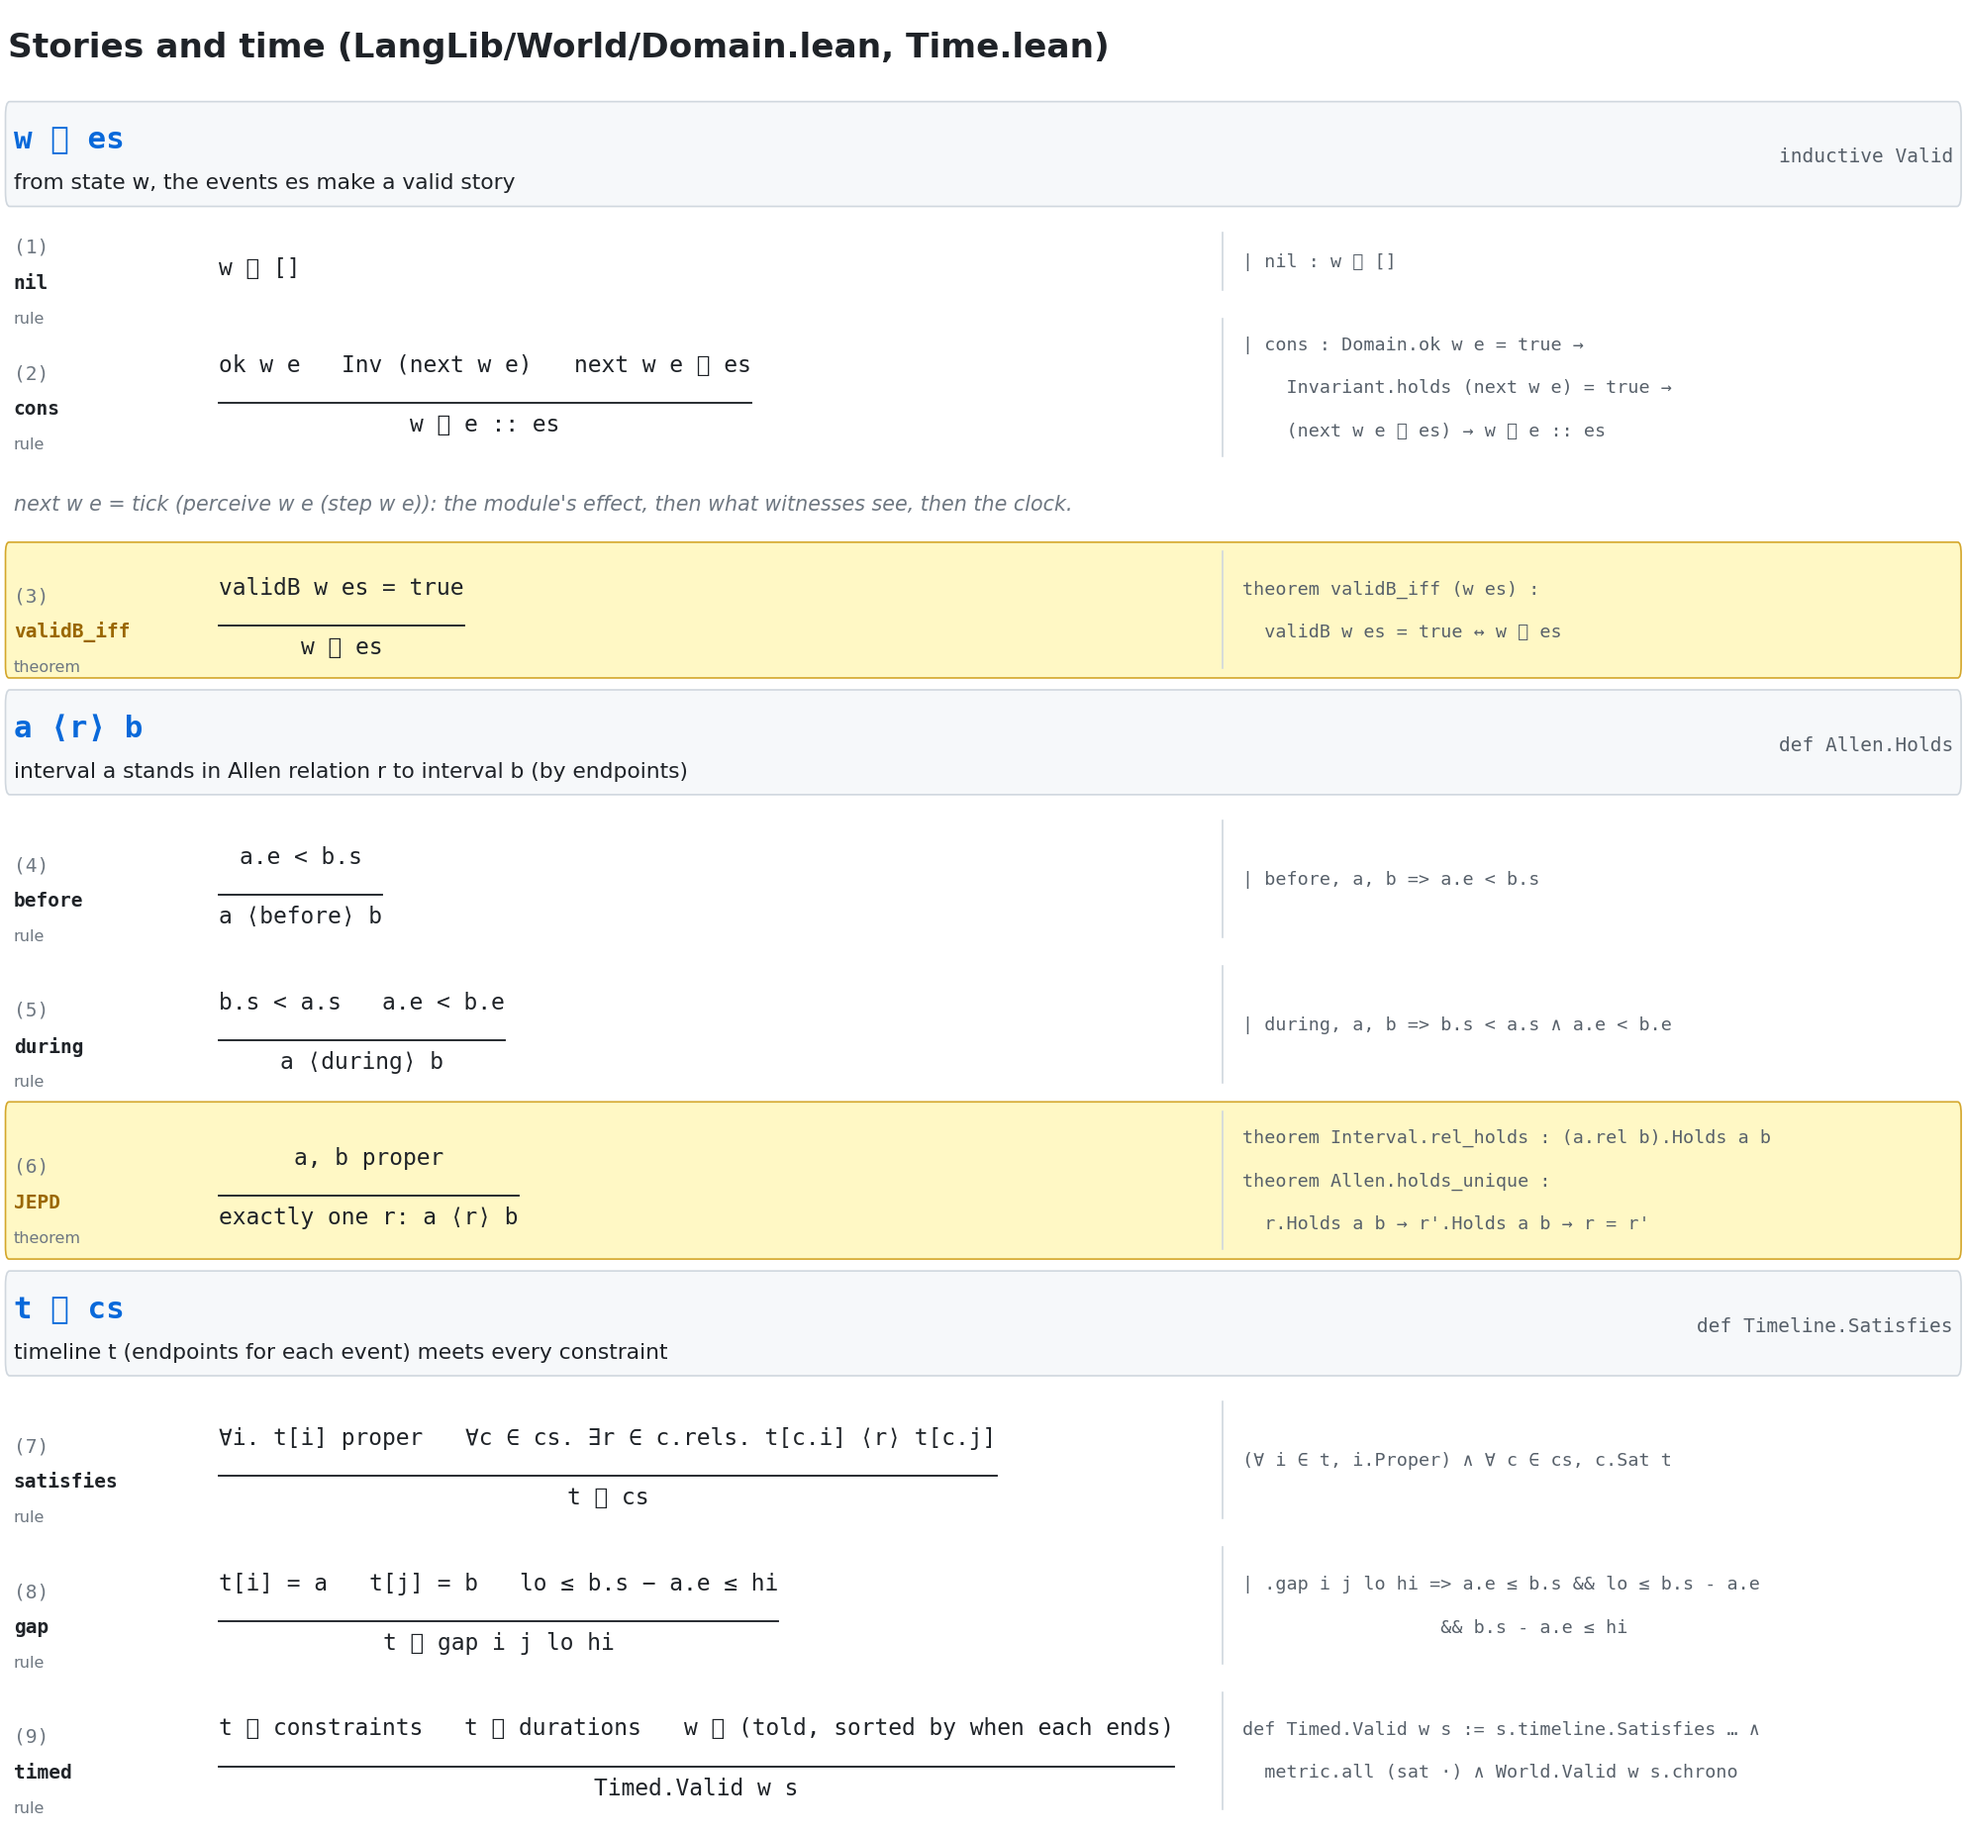
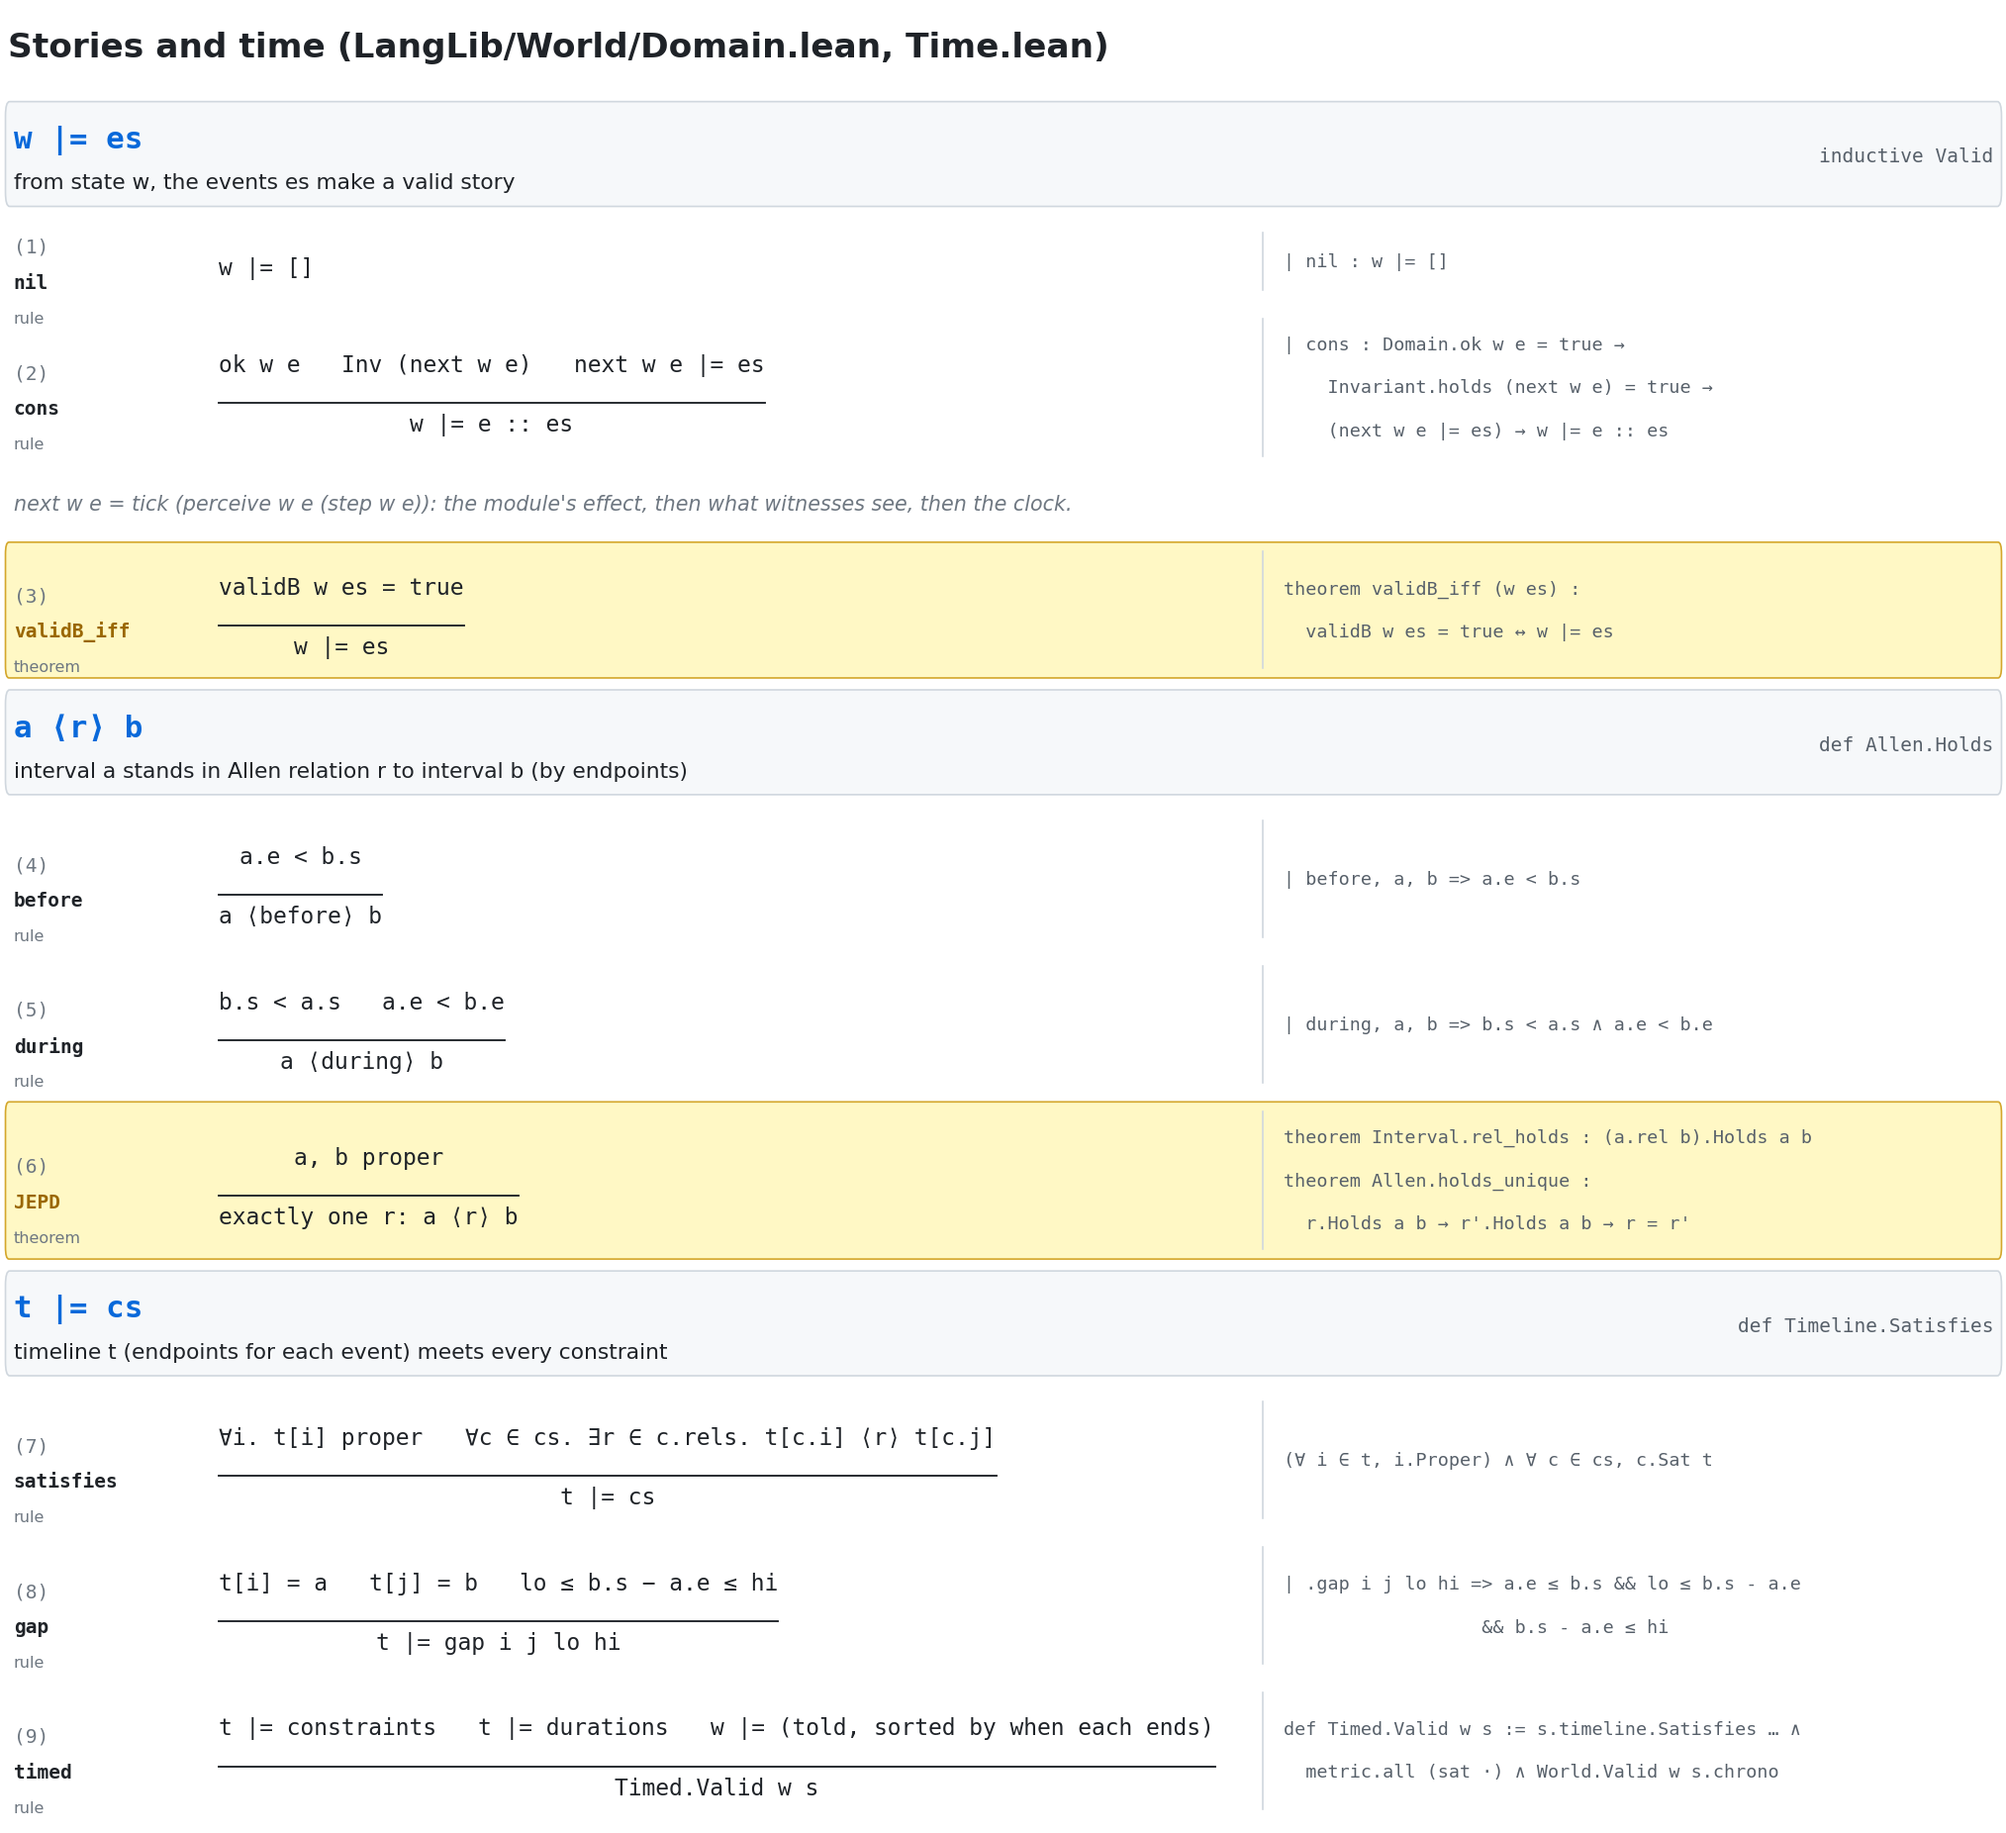
w ⊨? es notation; C4 card; ascii |= in figures

diff --git a/viz/cards.py b/viz/cards.py
@@ -82,9 +82,9 @@ def key():
             ("T ⊢ s ⇏ q", "Rebutted T q s", "rule s's attack on q fails"),
             ("T ⊢ r ✗", "Discarded T r", "some premise of rule r is refuted"),
             ("T ⊢ t ⊁ s", "Unbeaten T t s", "rule t does not override rule s"),
-            ("w ⊨ es", "Valid w es", "from state w, the events es make a valid story"),
+            ("w |= es", "Valid w es", "from state w, the events es make a valid story"),
             ("a ⟨r⟩ b", "Allen.Holds r a b", "interval a stands in Allen relation r to b"),
-            ("t ⊨ cs", "Timeline.Satisfies t cs", "timeline t meets every 'when' constraint"),
+            ("t |= cs", "Timeline.Satisfies t cs", "timeline t meets every 'when' constraint"),
             ("view w c", "Mind.view", "what c believes now (consistent, by theorem)"),
             ("viewAt w c t", "Mind.viewAt", "what c now believes held at time t"),
             ("viewAsOf w c s", "Mind.viewAsOf", "what c believed at time s (as they remember it)"),
@@ -148,24 +148,24 @@ def dl():
 
 def stories():
     return card("c2-stories.png", "Stories and time (LangLib/World/Domain.lean, Time.lean)", [
-        ("rel", "w ⊨ es", "from state w, the events es make a valid story", "inductive Valid"),
-        ("rule", "nil", P(concl="w ⊨ []"), ["| nil : w ⊨ []"]),
-        ("rule", "cons", P("ok w e", "Inv (next w e)", "next w e ⊨ es", concl="w ⊨ e :: es"),
-         ["| cons : Domain.ok w e = true →", "    Invariant.holds (next w e) = true →", "    (next w e ⊨ es) → w ⊨ e :: es"]),
+        ("rel", "w |= es", "from state w, the events es make a valid story", "inductive Valid"),
+        ("rule", "nil", P(concl="w |= []"), ["| nil : w |= []"]),
+        ("rule", "cons", P("ok w e", "Inv (next w e)", "next w e |= es", concl="w |= e :: es"),
+         ["| cons : Domain.ok w e = true →", "    Invariant.holds (next w e) = true →", "    (next w e |= es) → w |= e :: es"]),
         ("note", "next w e = tick (perceive w e (step w e)): the module's effect, then what witnesses see, then the clock."),
-        ("thm", "validB_iff", P("validB w es = true", concl="w ⊨ es"),
-         ["theorem validB_iff (w es) :", "  validB w es = true ↔ w ⊨ es"]),
+        ("thm", "validB_iff", P("validB w es = true", concl="w |= es"),
+         ["theorem validB_iff (w es) :", "  validB w es = true ↔ w |= es"]),
         ("rel", "a ⟨r⟩ b", "interval a stands in Allen relation r to interval b (by endpoints)", "def Allen.Holds"),
         ("rule", "before", P("a.e < b.s", concl="a ⟨before⟩ b"), ["| before, a, b => a.e < b.s"]),
         ("rule", "during", P("b.s < a.s", "a.e < b.e", concl="a ⟨during⟩ b"), ["| during, a, b => b.s < a.s ∧ a.e < b.e"]),
         ("thm", "JEPD", P("a, b proper", concl="exactly one r: a ⟨r⟩ b"),
          ["theorem Interval.rel_holds : (a.rel b).Holds a b", "theorem Allen.holds_unique :", "  r.Holds a b → r'.Holds a b → r = r'"]),
-        ("rel", "t ⊨ cs", "timeline t (endpoints for each event) meets every constraint", "def Timeline.Satisfies"),
-        ("rule", "satisfies", P("∀i. t[i] proper", "∀c ∈ cs. ∃r ∈ c.rels. t[c.i] ⟨r⟩ t[c.j]", concl="t ⊨ cs"),
+        ("rel", "t |= cs", "timeline t (endpoints for each event) meets every constraint", "def Timeline.Satisfies"),
+        ("rule", "satisfies", P("∀i. t[i] proper", "∀c ∈ cs. ∃r ∈ c.rels. t[c.i] ⟨r⟩ t[c.j]", concl="t |= cs"),
          ["(∀ i ∈ t, i.Proper) ∧ ∀ c ∈ cs, c.Sat t"]),
-        ("rule", "gap", P("t[i] = a", "t[j] = b", "lo ≤ b.s − a.e ≤ hi", concl="t ⊨ gap i j lo hi"),
+        ("rule", "gap", P("t[i] = a", "t[j] = b", "lo ≤ b.s − a.e ≤ hi", concl="t |= gap i j lo hi"),
          ["| .gap i j lo hi => a.e ≤ b.s && lo ≤ b.s - a.e", "                  && b.s - a.e ≤ hi"]),
-        ("rule", "timed", P("t ⊨ constraints", "t ⊨ durations", "w ⊨ (told, sorted by when each ends)", concl="Timed.Valid w s"),
+        ("rule", "timed", P("t |= constraints", "t |= durations", "w |= (told, sorted by when each ends)", concl="Timed.Valid w s"),
          ["def Timed.Valid w s := s.timeline.Satisfies … ∧", "  metric.all (sat ·) ∧ World.Valid w s.chrono"]),
     ])
 
@@ -280,4 +280,35 @@ def example():
         ("note", "At the market there is no threats(merchant, m): protect is out of play (✗), timidQuiet applies and nothing overrides it,"),
         ("rule", "market", P("timidQuiet applies", "protect: T ⊢ protect ⊁ timidQuiet (it is ✗)", f"T ⊬+Δ {k}", concl=f"T ⊢−∂ {k}"),
          ["NotDef.defeated  (s := timidQuiet)", "→ the shout is out of character"]),
+    ])
+
+
+def unknowns_dialogue_goals():
+    return card("c4-dialogue-goals.png", "Unknowns, dialogue, goals (World/Domain, Space, Dialogue, Goals)", [
+        ("rel", "ok3 w e ∈ {yes, no, unknown}", "three-valued preconditions: what the text never said is unknown, not false", "Domain.ok3"),
+        ("rule", "and", P("a = no or b = no", concl="a ∧ b = no"), ["Tri.and: no wins, then unknown, then yes"]),
+        ("rule", "together3", P("loc a or loc b unknown", concl="together3 a b = unknown"),
+         ["def together3 w a b := if locKnown a && locKnown b", "  then ofBool (loc a == loc b) else .unknown"]),
+        ("rule", "assume", P("ok3 w e = unknown", concl="step assumes it: meet / meetObj"),
+         ["-- 'Mara took the letter' puts Mara where it was", "def meet w a b := … assumeAt w a b"]),
+        ("rel", "w |=? es", "plausible under assumptions: no event is ruled out", "inductive Plausible"),
+        ("rule", "cons", P("ok3 w e ≠ no", "Inv (next w e)", "next w e |=? es", concl="w |=? e :: es"),
+         ["| cons : Domain.ok3 w e ≠ .no →", "    Invariant.holds (next w e) = true →", "    (next w e |=? es) → w |=? e :: es"]),
+        ("thm", "plausibleB_iff", P("plausibleB w es = true", concl="w |=? es"), ["theorem plausibleB_iff : plausibleB w es = true ↔ w |=? es"]),
+        ("note", "assumptions w es lists every event that needed one, with why (e.g. 'assumes they were together')."),
+        ("rel", "dialogue", "speech acts beyond telling", "inductive DialogueEv"),
+        ("rule", "answer", P("c asked d about φ (open)", "l ∈ view d", "together", concl="ok (answer d c l); c learns l (told d)"),
+         ["| .answer d c l => together3 ∧", "    isOpen w c d l.1 && (view w d).contains l"]),
+        ("rule", "hint", P("l ∈ view c", "together", concl="d learns l (relayed c: weaker)"), ["| .hint c d l => learn d l (.relayed c)"]),
+        ("rule", "sarcasm", P("c says ~l meaning l", "rapport(d, c)", concl="d learns l"),
+         ["let heard := if Rapport.getsIt w d c then l else flip l", "-- no rapport: d (and bystanders) take ~l"]),
+        ("rule", "promise", P("c promises d l", concl="l is a goal of c; kept iff l true"), ["promises w := (c, d, l) :: …", "def kept w := (promises w).filter (truthLit w ·.2.2)"]),
+        ("rel", "motives", "why each action happened (IPOCL / Sabre: explained actions)", "def motives"),
+        ("rule", "by plan", P("p ∈ plans c", "e = first step of p", concl="e explained (p advances)"),
+         ["let byPlan := (plans w c).find? fun p =>", "  p.steps.head? = some e"]),
+        ("rule", "by goal", P("g ∈ effects e", "g ∈ goals c ∪ promises c", concl="e explained"),
+         ["(Purpose.effects w e).find? (goalsOf w c).contains"]),
+        ("rule", "else", P("agent c", "no plan step, no goal served", concl="e unmotivated (reported)"), ["def unmotivated w es := … .none"]),
+        ("rule", "planWorks", P("w |=? steps p", "goal p true after them", concl="planWorks w p"),
+         ["plausibleB w steps && truth (run w steps) goal"]),
     ])
